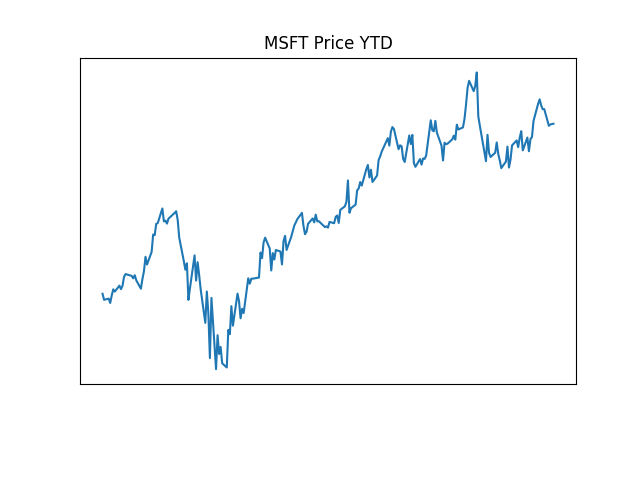
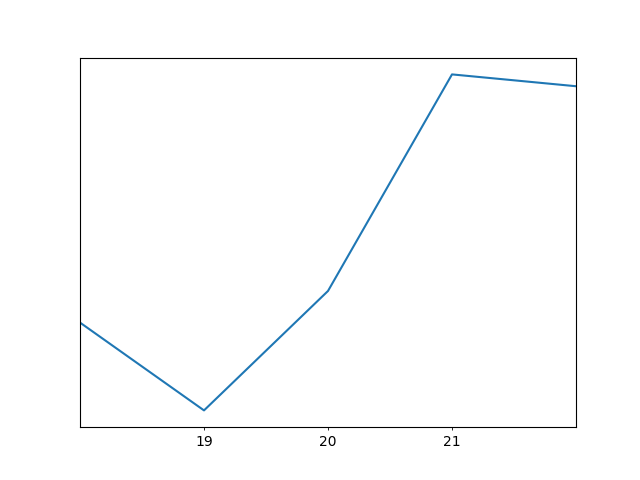
Added date params to stock plot chart

diff --git a/trader/templates/trader/home.html b/trader/templates/trader/home.html
@@ -75,22 +75,50 @@
 
             <!-- Page Content -->
             <div class="container">
-                <div class="row justify-content-around">
+                <div class="row justify-content-center">
                     <div class="col-7">
                         <!-- Account Balance -->
                         <h5>Account Balance: ${{balance}}</h5>
                         <hr>
                         {% if showPlot == True  %}
-                        <div id="plotOutput">
+                        <div class="plot">
                             {% load static %}
                             <img src="{% static 'stock.png' %}" width="auto" alt="stock" />
                         </div>
+                        <ul class="nav nav-pills-dark nav-fill">
+                            <li class="nav-item">
+                              <a class="nav-link active" href="#">1 Week</a>
+                            </li>
+                            <li class="nav-item">
+                              <a class="nav-link" href="#">1 Month</a>
+                            </li>
+                            <li class="nav-item">
+                              <a class="nav-link" href="#">1 Year</a>
+                            </li>
+                            <li class="nav-item">
+                              <a class="nav-link" href="#">All Time</a>
+                            </li>
+                        </ul>
                         {% endif %}
                         {% if showPortfolio == True  %}
-                        <div id="plotOutput">
+                        <div class="plot">
                             {% load static %}
-                            <img src="{% static 'portfolio.png' %}" width="auto" alt="stock" />
+                            <img src="{% static 'portfolio.png' %}" width="auto" alt="portfolio" />
                         </div>
+                        <ul class="nav nav-pills nav-fill">
+                            <li class="nav-item">
+                              <a class="nav-link active" href="#">1 Week</a>
+                            </li>
+                            <li class="nav-item">
+                              <a class="nav-link" href="#">1 Month</a>
+                            </li>
+                            <li class="nav-item">
+                              <a class="nav-link" href="#">1 Year</a>
+                            </li>
+                            <li class="nav-item">
+                                <a class="nav-link" href="#">All Time</a>
+                            </li>
+                        </ul>
                         {% endif %}
 
                     </div>

diff --git a/trader/finance.py b/trader/finance.py
@@ -6,7 +6,6 @@ import matplotlib.pyplot as plt
 import matplotlib as mpl
 import pandas as pd
 import numpy as np
-from datetime import date, datetime, timedelta
 from django.http.response import HttpResponse, JsonResponse
 import json
 import os
@@ -16,10 +15,10 @@ from decimal import Decimal
 #print(dir(yf))
 #print(help(yf))
 
-def getStockData(tickerSymbol):
+def getStockData(tickerSymbol, startDate, endDate):
     try:
         stockInfo = yf.Ticker(tickerSymbol).info
-        stockPlot(tickerSymbol)
+        stockPlot(tickerSymbol, startDate, endDate)
         today = Decimal(stockInfo['previousClose'] - stockInfo['regularMarketPrice']).quantize(Decimal("0.01"))
         return {
             'name': stockInfo['shortName'],
@@ -44,30 +43,16 @@ def getStockData(tickerSymbol):
         print ('No data found for heres exception {}'.format(tickerSymbol) + str(e))
 
 
-# tday = datetime.date.today()
-# print(tday.weekday()) #Mon 0 Sun 6
-# print(tday.isoweekday()) # Mon 1 Sun 7
-# year = (tday.day)
-# month = (tday.month)
-# day = (tday.day)
-# tdelta = datetime.timedelta(days=7)
-# oneWeek = tday + tdelta
-
-
-#startDate = datetime.date(date)
-
-
-
 # Get historical data to draw plot
-def stockPlot(ticker):
+def stockPlot(ticker, startDate, endDate):
     ticker = ticker.upper()
-    stocks = yf.download(ticker, start = '2020-01-01', end = str(datetime.now().strftime('%Y-%m-%d')))
+    stocks = yf.download(ticker, start = startDate, end = endDate )  #str(datetime.now().strftime('%Y-%m-%d'))
     stocks['Adj Close'].plot()
     plt.tick_params(axis='x', colors='white')
     plt.tick_params(axis='y', colors='white')
     plt.xlabel("Date").set_color("white")
     plt.ylabel("Price").set_color("white")
-    plt.title(ticker + " Price YTD")
+    plt.title(ticker + " Price YTD").set_color("white")
     IMGDIR= os.path.join(settings.BASE_DIR,'trader\static')   
     print('savefig(' + IMGDIR + '\stock.png)')
     plt.savefig(IMGDIR + '\stock.png', transparent=True)

diff --git a/trader/views.py b/trader/views.py
@@ -6,12 +6,13 @@ from django.shortcuts import get_list_or_404, get_object_or_404, render, redirec
 from .forms import StockForm, TickerForm
 from .models import Account, Stock, Transaction
 from .finance import getStockData, stockPlot
+from .dates import getDate
 from django.contrib.auth.models import User
 from django.contrib.auth import authenticate, logout, login
 import json
 
 # Create your views here.
-def portfolio(request):
+def home(request):
     account = Account.getAccount(1)
     balance = account.balance
     username = account.username
@@ -21,7 +22,9 @@ def portfolio(request):
     showPlot = False
     if request.method == "POST":
         tickerSymbol = request.POST.get('ticker')
-        stock = getStockData(tickerSymbol)
+        startDate = getDate('week')
+        endDate = getDate()
+        stock = getStockData(tickerSymbol, startDate, endDate)
         showPortfolio = False
         showStock = True
         showPlot = True
@@ -34,7 +37,7 @@ def portfolio(request):
             'showPortfolio' : showPortfolio, 
             'stock': stock
             }
-        return render(request, 'trader/portfolio.html', context)
+        return render(request, 'trader/home.html', context)
     context = {
         'username': username, 
         'balance': round(balance, 2), 
@@ -43,7 +46,7 @@ def portfolio(request):
         'showPlot':  showPlot,
         'showPortfolio' : showPortfolio
         }
-    return render(request, 'trader/portfolio.html', context)
+    return render(request, 'trader/home.html', context)
 
 def account(request):
     account = Account.getAccount(1)

diff --git a/trader/dates.py b/trader/dates.py
@@ -1,0 +1,36 @@
+from datetime import date, datetime, timedelta
+
+# tday = date.today()
+# print (tday)
+
+# now = datetime.now()
+# print(now)
+
+
+# print(tday.weekday()) #Mon 0 Sun 6
+# print(tday.isoweekday()) # Mon 1 Sun 7
+
+# tdyear = (tday.year)
+# tdmonth = (tday.month)
+# tdday = (tday.day)
+
+def getDate(range = 'today'):
+    tday = date.today()
+    week = timedelta(days=7)
+    month = timedelta(days=30)
+    year = timedelta(days=365)
+
+    if range == 'week':
+        weekAgo = tday - week
+        return weekAgo
+    
+    elif range == 'month':
+        monthAgo = tday - month
+        return monthAgo
+    
+    elif range == 'year':
+        yearAgo = tday - year
+        return yearAgo
+
+    else:
+        return tday

diff --git a/trader/urls.py b/trader/urls.py
@@ -7,9 +7,9 @@ from django.conf.urls.static import static
 
 # back-end router
 urlpatterns = [
-    path('', views.portfolio),
+    path('', views.home),
     path('account', views.account),
-    path('getstock', views.portfolio),
+    path('getstock', views.home),
     #path('ajax/getStockData', views.getStockData)
     path('transactions', Transaction.getTransactions),
     path('buystock', views.buyStock),
